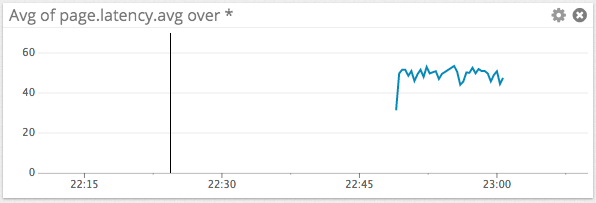
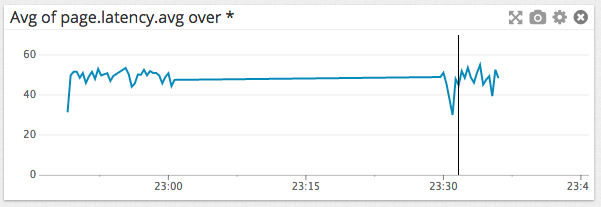
Level 3 Complete

diff --git a/answers.md b/answers.md
@@ -79,3 +79,38 @@ In the same recipes_controller.rb file you can add
 
 ____
 
+## Level 3
+Using the same web app from level 2:
+
+#### tag your metrics with `support` (one tag for all metrics)
+To tag your Metrics with support you can do so like this.
+'''statsd.increment('page.views', :tags => ["support"])'''
+
+#### tag your metrics per page (e.g. metrics generated on `/` can be tagged with `page:home`, `/page1` with  `page:page1`)
+You can then tag the metrics/page in this case page.views, for the next section  we will need to tag the Latency metric with this tag.
+
+'''statsd.increment('page.views', :tags => ["support", "page:recipes"])'''
+
+
+#### visualize the latency by page on a graph (using stacked areas, with one color per `page`)
+The following tag creates a histogram of Page latency and tags it with support, and page.
+'''
+statsd.histogram('page.latency', rand(100), :tags => ["support", "page:recipes"])
+'''
+
+This graph visualizes the latency for the recipes#index and recipes#new pages in the recipes controller.  The index page doesn't have a lot of images or text to render so performance was across the board a little better than the recipes#new page.
+
+![LatencyPerPageGraph](imgs/latency_perpage_graph.png)
+![LatencyPerPage](imgs/latency_perpage.png)
+
+
+____
+
+## Level 4
+###Same web app:
+
+#### Count the overall number of page views using dogstatsd counters.
+
+#### Count the number of page views, split by page (hint: use tags)
+#### visualize the results on a graph
+#### Bonus question: do you know why the graphs are very spiky?
